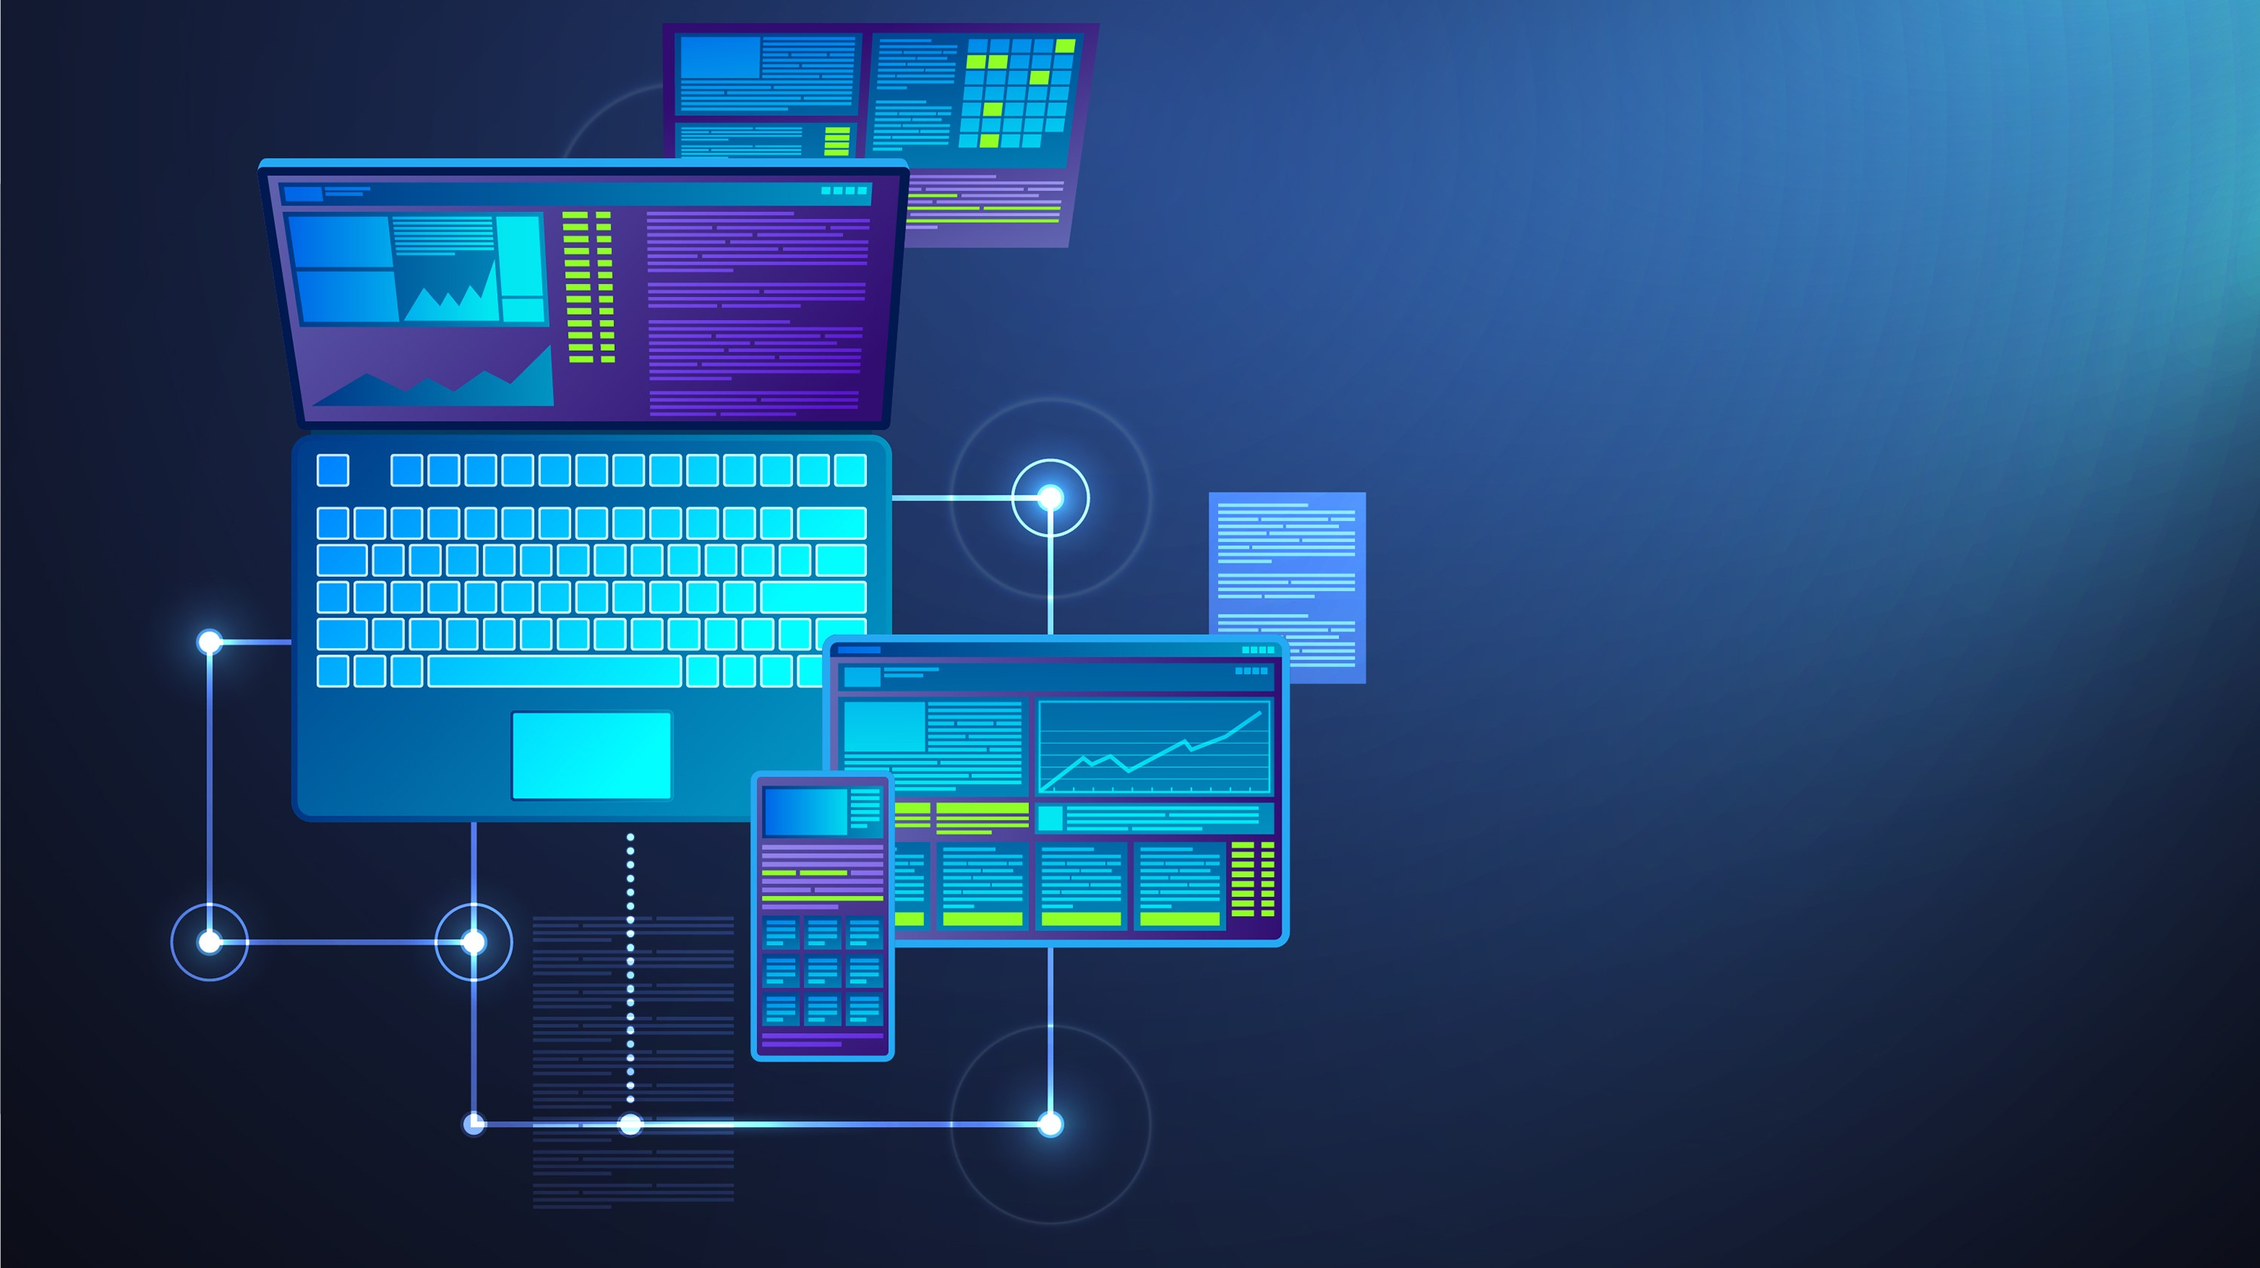
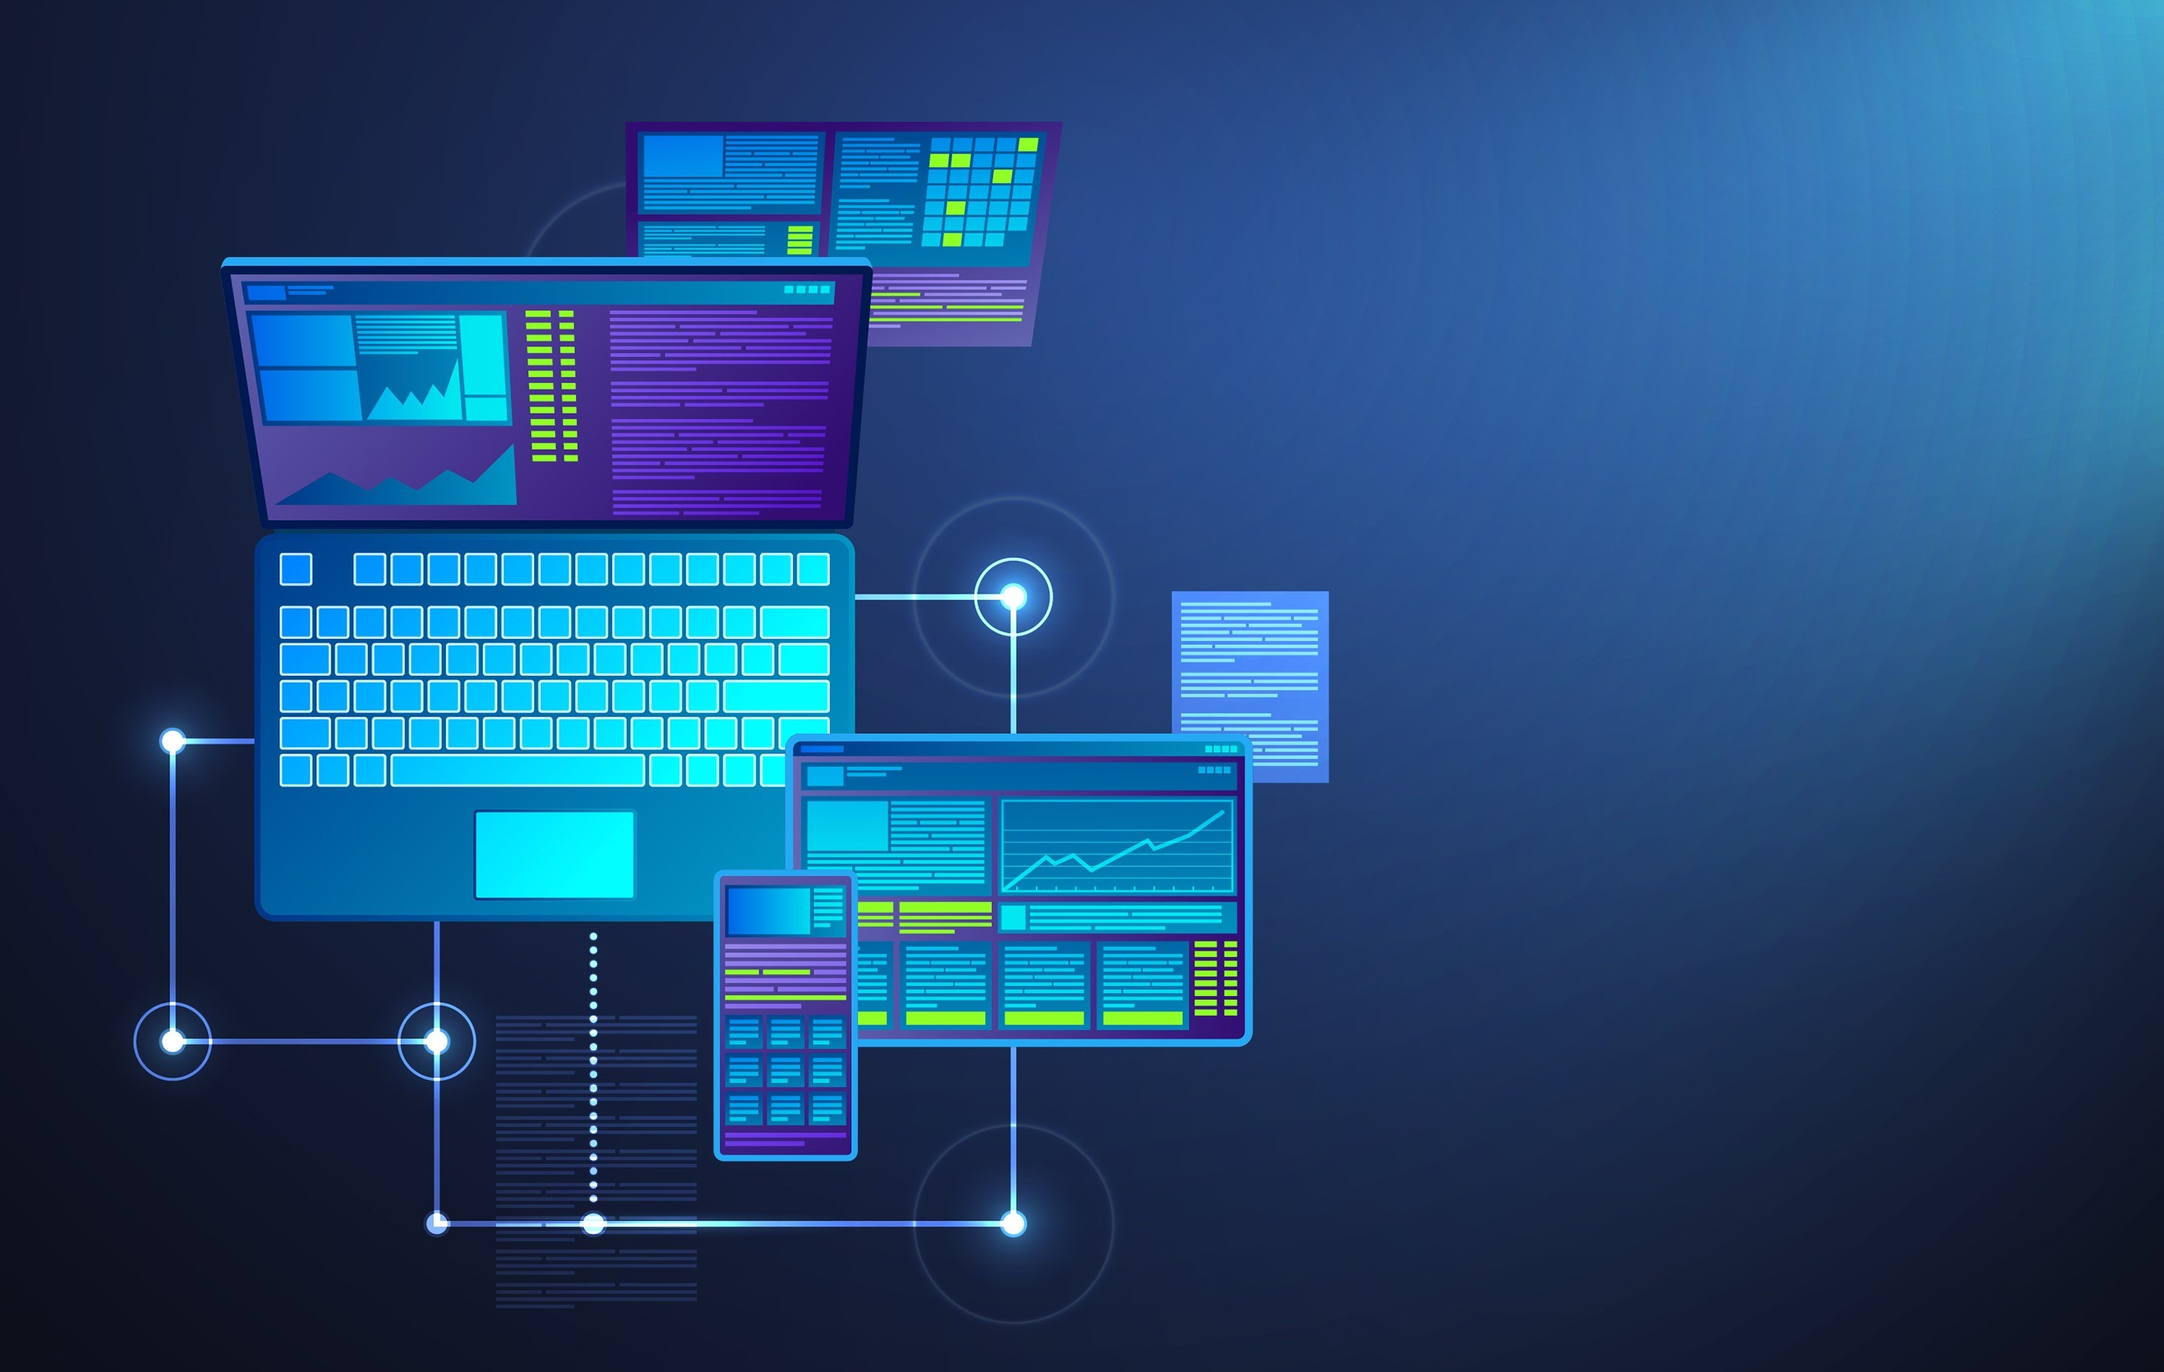
Add new background images and update CSS styles

Changed region(s): [[0.062, 0.0, 0.6196, 0.9572], [0.9293, 0.247, 1.0, 0.4632]]

diff --git a/src/components/Hero.js b/src/components/Hero.js
@@ -75,71 +75,70 @@ const Hero = () => {
                 </div>
             </nav>
 
-            <div className="px-6 py-12 text-center md:px-12 lg:py-24 lg:text-left">
+            <div className="px-6 py-12 mt-3 z-index:9 text-center md:px-12 lg:py-24 lg:text-left">
                 <div className="w-100 mx-auto text-neutral-800 sm:max-w-2xl md:max-w-3xl lg:max-w-5xl xl:max-w-7xl">
-                    <div className="grid items-center gap-12 lg:grid-cols-2">
-                        <div className="mt-12 lg:mt-0 z-index: 10">
-                            <h1
-                                className="mt-0 mb-12 text-5xl font-bold tracking-tight md:text-6xl xl:text-7xl text-[hsl(218,81%,95%)]">
-                                {/* The best offer <br /><span className="text-[hsl(218,81%,75%)]">for your business</span> */}
-                            </h1>
-                            <p className="opacity-70 text-[hsl(218,81%,85%)]">
-                                {/* Lorem ipsum dolor, sit amet consectetur adipisicing elit.
-                                Temporibus, expedita iusto veniam atque, magni tempora
-                                mollitia dolorum consequatur nulla, neque debitis eos
-                                reprehenderit quasi ab ipsum nisi dolorem modi. Quos? */}
+                    <div className="grid item-left gap-12 lg:grid-cols-2">
+                        <div className="mt-6 ">
+                            <p className="tagline  ">
+                            ---- Our doors are always open and we would love to hear from you
                             </p>
+                            <h1
+                                className="androidappline lg:ml-9  text-5xl font-bold tracking-tight md:text-6xl xl:text-4xl ">
+                                Android App Development
+                            </h1>
+
                         </div>
-                        <div className="relative mb-12 lg:mb-0">
+
+                        <div className="relative lg:px-12 mb-12 lg:mb-0">
                             <div
                                 className="relative bg-[hsla(0,0%,100%,0.9)] backdrop-blur-[51px] backdrop-saturate-[200%] block rounded-lg px-6 py-5 shadow-[0_2px_15px_-3px_rgba(0,0,0,0.07),0_10px_20px_-2px_rgba(0,0,0,0.04)] dark:bg-white dark:shadow-black/20 md:px-8">
 
-                                <form>
-                                    <div class="grid md:grid-cols-2 md:gap-5 mt-5">
+                                <form className="px-2">
+                                    <div class=" flex  justify-left">
+                                        <h1 className="mb-2 mt-4 text font-bold tracking-tight md:text-4xl xl:text-3xl">
+                                            Speak to an Expert
+                                        </h1>
+                                    </div>
+                                    <div class="mt-1 mb-5 flex  justify-left text-left">
+                                        <p>
+                                            if you have any RFP requirement please share with us a
+                                            hr@webnautical.com and if you are looking for a career
+                                            related enquiry please check our Career section
+                                        </p>
+                                    </div>
+
+                                    <div class=" grid md:grid-cols-2 md:gap-7 ">
                                         <div class="relative mb-6" data-te-input-wrapper-init>
-                                            <input type="text"
-                                                class="peer block min-h-[auto] w-full rounded border-0 bg-transparent py-[0.32rem] px-3 leading-[1.6] outline-none transition-all duration-200 ease-linear focus:placeholder:opacity-100 data-[te-input-state-active]:placeholder:opacity-100 motion-reduce:transition-none dark:text-neutral-200 dark:placeholder:text-neutral-200 [&:not([data-te-input-placeholder-active])]:placeholder:opacity-0"
-                                                id="exampleFormControlInput1" placeholder="First name" />
-                                            <label for="exampleFormControlInput1"
-                                                class="pointer-events-none absolute top-0 left-3 mb-0 max-w-[90%] origin-[0_0] truncate pt-[0.37rem] leading-[1.6] text-black transition-all duration-200 ease-out peer-focus:-translate-y-[0.9rem] peer-focus:scale-[0.8] peer-focus:text-primary peer-data-[te-input-state-active]:-translate-y-[0.9rem] peer-data-[te-input-state-active]:scale-[0.8] motion-reduce:transition-none dark:text-black dark:peer-focus:text-primary">First
-                                                name
-                                            </label>
+                                            <input type="text" class="peer block min-h-[auto] w-full rounded border-b-2 border-black bg-transparent py-[0.32rem] px-3 leading-[1.6] outline-none transition-all duration-200 ease-linear focus:placeholder:opacity-100 data-[te-input-state-active]:placeholder:opacity-100 motion-reduce:transition-none  dark:placeholder:text-neutral-200 [&:not([data-te-input-placeholder-active])]:placeholder:opacity-0" id="exampleFormControlInput1" placeholder="First name" />
+                                            <label for="exampleFormControlInput1" class="pointer-events-none absolute top-0 left-3 mb-0 max-w-[90%] origin-[0_0] truncate pt-[0.37rem] leading-[1.6] text-black transition-all duration-200 ease-out peer-focus:-translate-y-[0.9rem] peer-focus:scale-[0.8] peer-focus:text-primary peer-data-[te-input-state-active]:-translate-y-[0.9rem] peer-data-[te-input-state-active]:scale-[0.8] motion-reduce:transition-none dark:text-black dark:peer-focus:text-primary">First name</label>
                                         </div>
                                         <div class="relative mb-6" data-te-input-wrapper-init>
-                                            <input type="text"
-                                                class="peer block min-h-[auto] w-full rounded border-0 bg-transparent py-[0.32rem] px-3 leading-[1.6] outline-none transition-all duration-200 ease-linear focus:placeholder:opacity-100 data-[te-input-state-active]:placeholder:opacity-100 motion-reduce:transition-none dark:text-neutral-200 dark:placeholder:text-neutral-200 [&:not([data-te-input-placeholder-active])]:placeholder:opacity-0"
-                                                id="exampleFormControlInput2" placeholder="Last name" />
-                                            <label for="exampleFormControlInput2"
-                                                class="pointer-events-none absolute top-0 left-3 mb-0 max-w-[90%] origin-[0_0] truncate pt-[0.37rem] leading-[1.6] text-black transition-all duration-200 ease-out peer-focus:-translate-y-[0.9rem] peer-focus:scale-[0.8] peer-focus:text-primary peer-data-[te-input-state-active]:-translate-y-[0.9rem] peer-data-[te-input-state-active]:scale-[0.8] motion-reduce:transition-none dark:text-black dark:peer-focus:text-primary">Last
-                                                name
-                                            </label>
+                                            <input type="text" class="peer block min-h-[auto] w-full rounded border-b-2 border-black bg-transparent py-[0.32rem] px-3 leading-[1.6] outline-none transition-all duration-200 ease-linear focus:placeholder:opacity-100 data-[te-input-state-active]:placeholder:opacity-100 motion-reduce:transition-none  dark:placeholder:text-neutral-200 [&:not([data-te-input-placeholder-active])]:placeholder:opacity-0" id="exampleFormControlInput2" placeholder="Last name" />
+                                            <label for="exampleFormControlInput2" class="pointer-events-none absolute top-0 left-3 mb-0 max-w-[90%] origin-[0_0] truncate pt-[0.37rem] leading-[1.6] text-black transition-all duration-200 ease-out peer-focus:-translate-y-[0.9rem] peer-focus:scale-[0.8] peer-focus:text-primary peer-data-[te-input-state-active]:-translate-y-[0.9rem] peer-data-[te-input-state-active]:scale-[0.8] motion-reduce:transition-none dark:text-black dark:peer-focus:text-primary">Last name</label>
                                         </div>
+                                        <div class="relative mb-6" data-te-input-wrapper-init>
+                                            <input type="email" class="peer block min-h-[auto] w-full rounded border-b-2 border-black bg-transparent py-[0.32rem] px-3 leading-[1.6] outline-none transition-all duration-200 ease-linear focus:placeholder:opacity-100 data-[te-input-state-active]:placeholder:opacity-100 motion-reduce:transition-none  dark:placeholder:text-neutral-200 [&:not([data-te-input-placeholder-active])]:placeholder:opacity-0" id="exampleFormControlInput3" placeholder="Email address" />
+                                            <label for="exampleFormControlInput3" class="pointer-events-none absolute top-0 left-3 mb-0 max-w-[90%] origin-[0_0] truncate pt-[0.37rem] leading-[1.6] text-black transition-all duration-200 ease-out peer-focus:-translate-y-[0.9rem] peer-focus:scale-[0.8] peer-focus:text-primary peer-data-[te-input-state-active]:-translate-y-[0.9rem] peer-data-[te-input-state-active]:scale-[0.8] motion-reduce:transition-none dark:text-black dark:peer-focus:text-primary">Email address</label>
+                                        </div>
+                                        <div class="relative mb-6" data-te-input-wrapper-init>
+                                            <input type="tel" class="peer block min-h-[auto] w-full rounded border-b-2 border-black bg-transparent py-[0.32rem] px-3 leading-[1.6] outline-none transition-all duration-200 ease-linear focus:placeholder:opacity-100 data-[te-input-state-active]:placeholder:opacity-100 motion-reduce:transition-none  dark:placeholder:text-neutral-200 [&:not([data-te-input-placeholder-active])]:placeholder:opacity-0" id="exampleFormControlInput4" placeholder="Phone number" />
+                                            <label for="exampleFormControlInput4" class="pointer-events-none absolute top-0 left-3 mb-0 max-w-[90%] origin-[0_0] truncate pt-[0.37rem] leading-[1.6] text-black transition-all duration-200 ease-out peer-focus:-translate-y-[0.9rem] peer-focus:scale-[0.8] peer-focus:text-primary peer-data-[te-input-state-active]:-translate-y-[0.9rem] peer-data-[te-input-state-active]:scale-[0.8] motion-reduce:transition-none dark:text-black dark:peer-focus:text-primary">Phone number</label>
+                                        </div>
+
                                     </div>
-                                    <div class="relative mb-6" data-te-input-wrapper-init>
-                                        <input type="email"
-                                            class="peer block min-h-[auto] w-full rounded border-0 bg-transparent py-[0.32rem] px-3 leading-[1.6] outline-none transition-all duration-200 ease-linear focus:placeholder:opacity-100 data-[te-input-state-active]:placeholder:opacity-100 motion-reduce:transition-none dark:text-neutral-200 dark:placeholder:text-neutral-200 [&:not([data-te-input-placeholder-active])]:placeholder:opacity-0"
-                                            id="exampleFormControlInput3" placeholder="Email address" />
-                                        <label for="exampleFormControlInput3"
-                                            class="pointer-events-none absolute top-0 left-3 mb-0 max-w-[90%] origin-[0_0] truncate pt-[0.37rem] leading-[1.6] text-black transition-all duration-200 ease-out peer-focus:-translate-y-[0.9rem] peer-focus:scale-[0.8] peer-focus:text-primary peer-data-[te-input-state-active]:-translate-y-[0.9rem] peer-data-[te-input-state-active]:scale-[0.8] motion-reduce:transition-none dark:text-black dark:peer-focus:text-primary">Email
-                                            address
-                                        </label>
+                                    <div class="relative mb-6 mt-4" data-te-input-wrapper-init>
+                                        <textarea class="peer block min-h-[auto] w-full rounded border-b-2 border-black bg-transparent py-[0.32rem] px-3 leading-[1.6] outline-none transition-all duration-200 ease-linear focus:placeholder:opacity-100 data-[te-input-state-active]:placeholder:opacity-100 motion-reduce:transition-none  dark:placeholder:text-neutral-200 [&:not([data-te-input-placeholder-active])]:placeholder:opacity-0" id="exampleFormControlInput5" placeholder="Your message"></textarea>
+                                        <label for="exampleFormControlInput5" class="pointer-events-none absolute top-0 left-3 mb-0 max-w-[90%] origin-[0_0] truncate pt-[0.37rem] leading-[1.6] text-black transition-all duration-200 ease-out peer-focus:-translate-y-[0.9rem] peer-focus:scale-[0.8] peer-focus:text-primary peer-data-[te-input-state-active]:-translate-y-[0.9rem] peer-data-[te-input-state-active]:scale-[0.8] motion-reduce:transition-none dark:text-black dark:peer-focus:text-primary">Your message</label>
                                     </div>
-                                    <div class="relative mb-6" data-te-input-wrapper-init>
-                                        <input type="password"
-                                            class="peer block min-h-[auto] w-full rounded border-0 bg-transparent py-[0.32rem] px-3 leading-[1.6] outline-none transition-all duration-200 ease-linear focus:placeholder:opacity-100 data-[te-input-state-active]:placeholder:opacity-100 motion-reduce:transition-none dark:text-neutral-200 dark:placeholder:text-neutral-200 [&:not([data-te-input-placeholder-active])]:placeholder:opacity-0"
-                                            id="exampleFormControlInput4" placeholder="Password" />
-                                        <label for="exampleFormControlInput4"
-                                            class="pointer-events-none absolute top-0 left-3 mb-0 max-w-[90%] origin-[0_0] truncate pt-[0.37rem] leading-[1.6] text-black transition-all duration-200 ease-out peer-focus:-translate-y-[0.9rem] peer-focus:scale-[0.8] peer-focus:text-primary peer-data-[te-input-state-active]:-translate-y-[0.9rem] peer-data-[te-input-state-active]:scale-[0.8] motion-reduce:transition-none dark:text-black dark:peer-focus:text-primary">Password
-                                        </label>
-                                    </div>
-                                    <div class="mb-6 flex min-h-[1.5rem] justify-center pl-[1.5rem]">
-                                        <button type="button" class="text-white  bg-gradient-to-r from-blue-500 via-blue-600 to-blue-700 hover:bg-gradient-to-br focus:ring-4 focus:outline-none focus:ring-blue-300 dark:focus:ring-blue-800 font-medium rounded-lg text-sm px-5 py-2.5 text-center me-2 mb-2">
-                                            <span className=" flex gap-x-1 px-6">
-                                                Get Free Quote <ArrowRightIcon className="-mr-1 h-5 w-5 text-white" aria-hidden="true" />
+                                    <div class="mb-6 flex min-h-[1.5rem] justify-center">
+                                        <button type="button" class="text-white justify-center bg-gradient-to-r from-blue-500 via-blue-600 to-blue-700 hover:bg-gradient-to-br focus:ring-4 focus:outline-none focus:ring-blue-300 dark:focus:ring-blue-800 font-medium rounded-lg text-sm w-full py-2.5 text-center mt-5 me-2">
+                                            <span class="justify-center flex gap-x-1 px-6">
+                                                Get Free Quote <ArrowRightIcon class="-mr-1 h-5 w-5 text-white" aria-hidden="true" />
                                             </span>
                                         </button>
                                     </div>
                                 </form>
+
 
                             </div>
                         </div>

diff --git a/src/components/Components.css b/src/components/Components.css
@@ -1,11 +1,23 @@
 .background-image {
     
-   background-image: url(../../public/techimage2.jpg);
+   background-image: url(../../public/bg51.jpg);
     background-size: cover;
     background-repeat: no-repeat;
-    height: 1080px;
-}
-
-.logo {
     
 }
+
+.androidappline{   
+    border-radius: 50px;
+    color: #000000;
+    text-shadow: -6px 6px 15px rgba(0,0,0,0.5),
+      6px -6px 15px rgba(255,255,255,0.8);
+    
+}
+
+.tagline{
+    color: #000000; 
+    font-size: 13px;
+    margin-left: 41px!important;
+    margin-bottom: 8px!important;
+}
+
